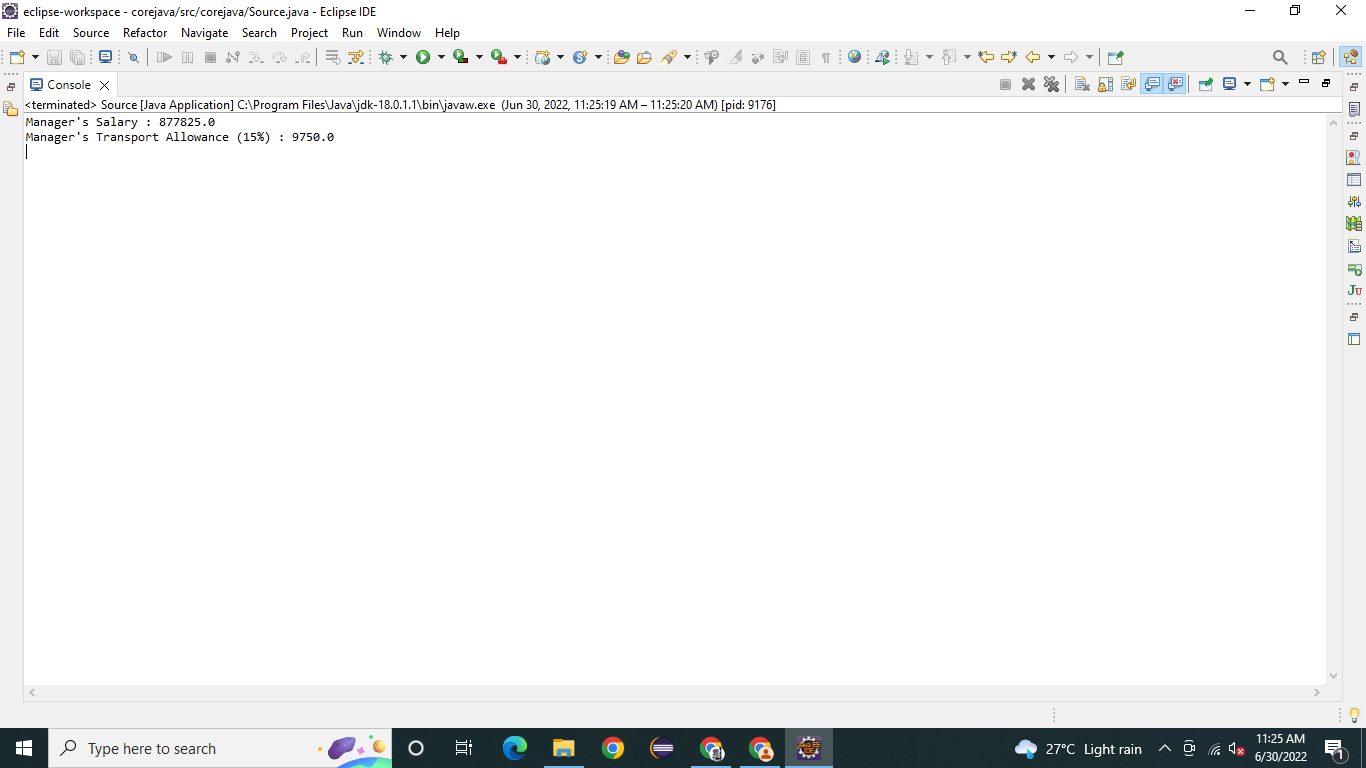
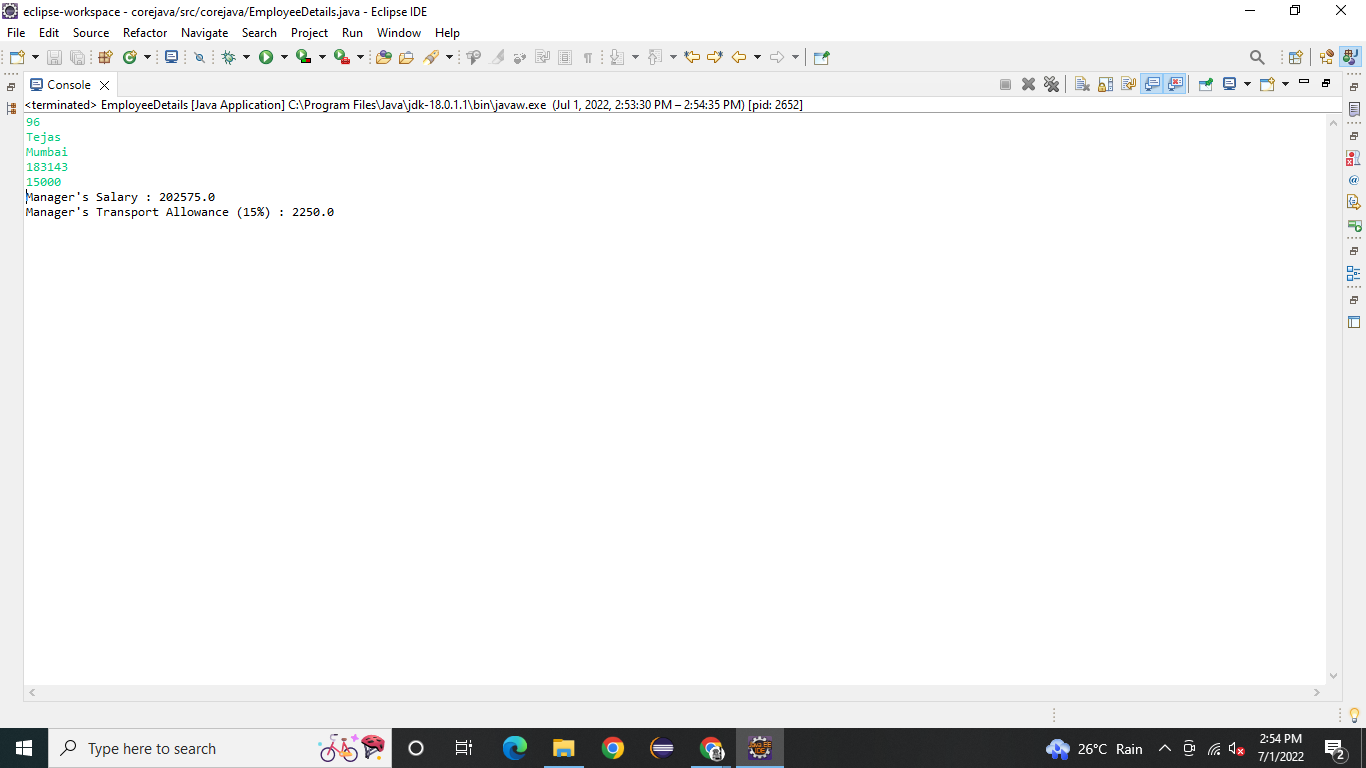
Add files via upload

diff --git a/Lab Session/Assignment 30-06-2022/EmployeeDetails.java b/Lab Session/Assignment 30-06-2022/EmployeeDetails.java
@@ -1,5 +1,6 @@
 package corejava;
 import java.io.*;
+import java.util.Scanner;
 //Create a class Employee with the following instance variables
 class Employee 
 { 
@@ -49,11 +50,12 @@ public double getbasic_salary()
  * Create overloaded constructors which takes the below parameters and initializes them to their respective variables in the Constructor parameter Instance Variable*/
 class Manager extends Employee
 {
-    Manager(long id,String n,String a,long p,double s) 
-    { 
-        super(id,n,a,p,s);
-    }
-    
+	 Manager(long id,String n,String a,long p,double s) 
+	    { 
+	        super(id,n,a,p,s);
+	    }
+
+	
     public double calculateTransportAllowance(Manager m,int a)
     {
         return 0.15*getbasic_salary();
@@ -62,11 +64,15 @@ class Manager extends Employee
 //Create a class "EmployeeDetails.java" with a main method. 
 class EmployeeDetails
 {
-    public static void main(String[] args) 
-    {
-        Manager m = new Manager(126534, "Peter", "Chennai India", 237844, 65000.0);
-double salary = m.calculateSalary(); 
-System.out.println("Manager's Salary : "+salary);
-System.out.println("Manager's Transport Allowance (15%) : "+m.calculateTransportAllowance(m, 15));   
-    }
+	public static void main(String[] args) {
+		Scanner sc = new Scanner(System.in);
+		
+		Manager m = new Manager(Integer.parseInt(sc.nextLine()), sc.nextLine(), sc.nextLine(), Long.parseLong(sc.next()), Double.parseDouble(sc.next()));
+		//126534, "Peter", "Chennai India", 237844, 65000.0
+		sc.close();
+		double salary = m.calculateSalary();
+		System.out.println("Manager's Salary : " + salary);
+		System.out.println("Manager's Transport Allowance (15%) : " + m.calculateTransportAllowance(m, 15));
+	}
+
 }
